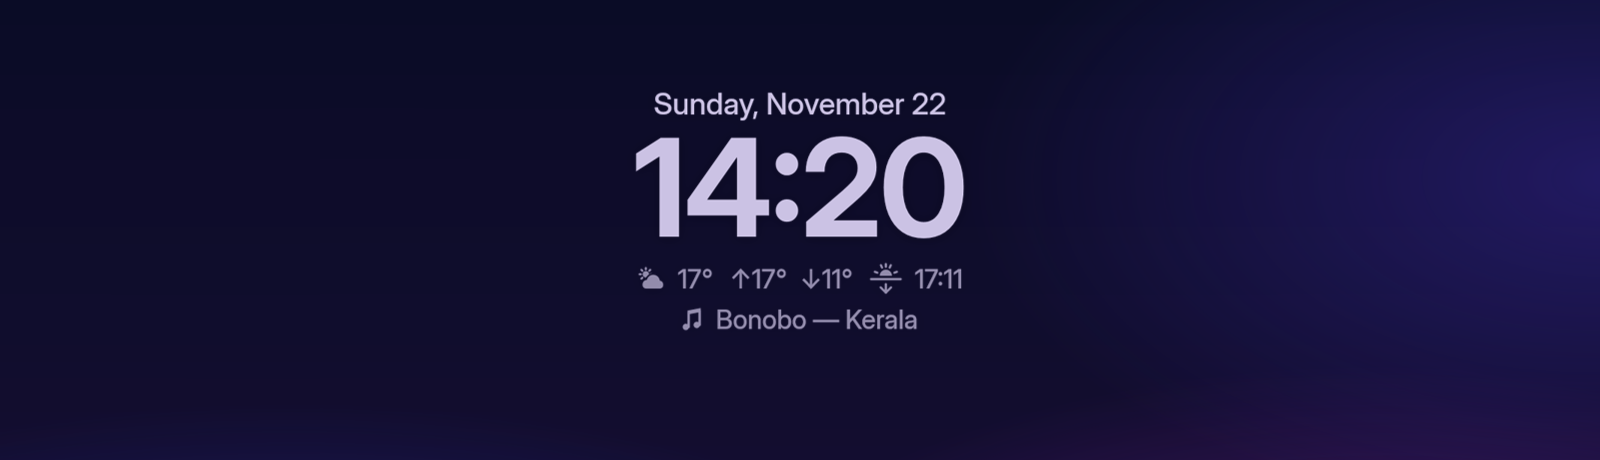
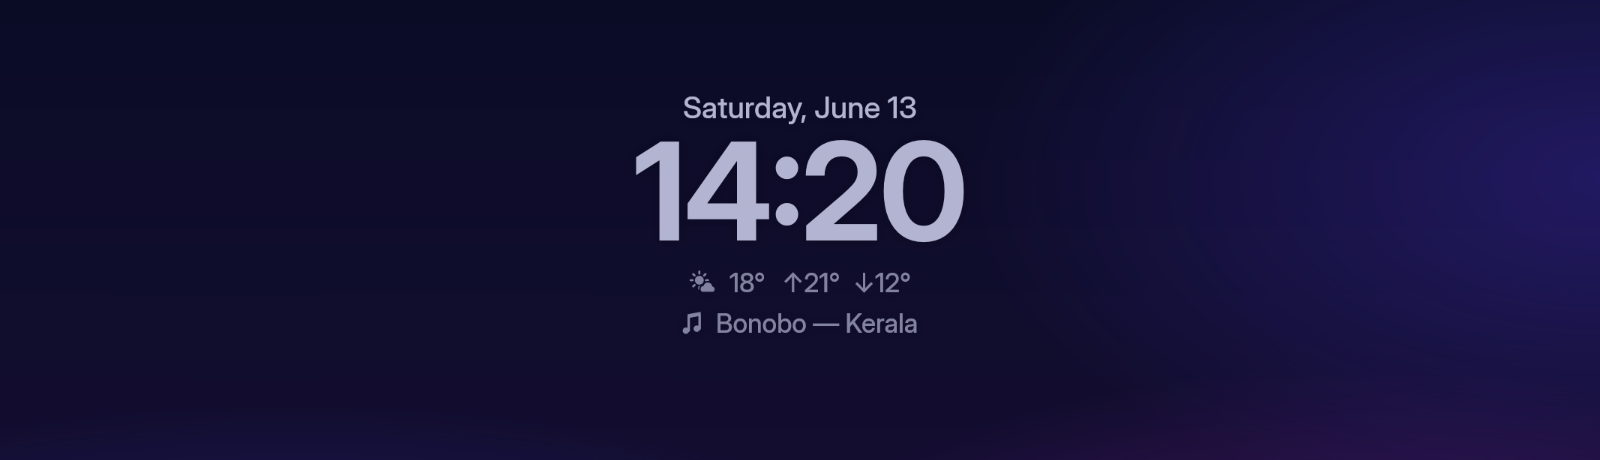
README animations; screenshot with made-up weather
--demo renders the minute change and a dark-to-light wallpaper change as
frames, using the clock's own renderer and transition layers with the
compositor's curves reproduced (StartTransition can hand its layers to a
capture instead of animating). SaveScene now blends several backgrounds
and draws parts at sub-pixel positions with an opacity; SampleImage picks
the text colour from a background image. The README shows both GIFs, and
the screenshot no longer uses real weather.

Changed region(s): [[0.375, 0.1826, 0.625, 0.5478], [0.375, 0.5783, 0.625, 0.6391], [0.4062, 0.6696, 0.5938, 0.7304]]

diff --git a/src/main.cpp b/src/main.cpp
@@ -415,6 +415,14 @@ void FinishAnimation(Clock& c) {
 //     to their new centred position at full opacity;
 //   - the changed characters of the old and new time crossfade;
 //   - the date stays put, unless it (or the colour) changed, in which case it crossfades too.
+// --demo: StartTransition hands its layers here instead of to the compositor.
+struct Capture {
+    std::vector<ClockRenderer::AnimLayer> layers;
+    std::vector<ComPtr<ID2D1Bitmap1>> keep;
+    double seconds = 0, alpha = 1;
+};
+Capture* g_capture;
+
 bool StartTransition(Clock& c, const Shown& from) {
     using AL = ClockRenderer::AnimLayer;
     const Shown& to = c.cur;
@@ -485,6 +493,13 @@ bool StartTransition(Clock& c, const Shown& from) {
             const float sx = std::fabs(dx - std::round(dx)) < 0.01f ? (float)n.x - std::round(dx) : (float)n.x - dx;
             layers.push_back({ AL::Solid, bmp.Get(), sx, (float)o.y, (float)n.x, (float)n.y });
         }
+    }
+    if (g_capture) {   // --demo: hand the layers over instead of animating them
+        g_capture->layers = layers;
+        g_capture->keep = keep;
+        g_capture->seconds = FadeMs(c.s) / 1000.0;
+        g_capture->alpha = to.lay.opacity / 100.0;
+        return true;
     }
     return g_r.Animate(c.hwnd, layers.data(), (int)layers.size(), FadeMs(c.s) / 1000.0, to.lay.opacity / 100.0);
 }
@@ -1075,7 +1090,8 @@ int RunPreview(std::wstring dir, const std::wstring& wallpaperOverride) {
             auto bmp = r.RenderFrame(lay, color, dark);
             wchar_t name[64], line[512];
             swprintf_s(name, L"preview-%d-%s.png", n, v ? L"proposed" : L"now");
-            if (!bmp || !r.SaveScene(dir + name, { monW, monH }, wall, position, bg, { { bmp.Get(), pos } },
+            if (!bmp || !r.SaveScene(dir + name, { monW, monH }, { { wall, 1.f } }, position, bg,
+                                       { { bmp.Get(), { (float)pos.x, (float)pos.y }, 1.f } },
                                        (float)std::min(1.0, 1920.0 / monW))) rc = 1;
             swprintf_s(line, L"%s  %s (%dx%d, %u dpi): TimeSize=%g DateSize=%g Gap=%g WeatherSize=%g WeatherGap=%g "
                              L"SecondaryOpacity=%g VerticalPosition=%.1f; date capitals at %.1f%% of the height\r\n",
@@ -1096,6 +1112,123 @@ int RunPreview(std::wstring dir, const std::wstring& wallpaperOverride) {
     return n ? rc : 1;
 }
 
+// --demo <folder> <dark image> <light image>: PNG frames (30 fps, half size) for the README's
+// animations, drawn with the clock's own renderer and transition, the compositor's curves
+// reproduced here: a minute change (14:19 -> 14:20) and a wallpaper change from the dark image
+// to the light one. Default settings, made-up weather and track. Also demo-still.png.
+int RunDemo(std::wstring dir, const std::wstring& darkBg, const std::wstring& lightBg) {
+    if (!dir.empty() && dir.back() != L'\\' && dir.back() != L'/') dir += L'\\';
+    if (!g_r.Init()) return 1;
+    const Settings s;   // what a new user gets
+    MonitorInfo mon;
+    mon.rc = { 0, 0, 2560, 1440 };
+    mon.dpi = 120;
+    const SIZE monSz{ 2560, 1440 };
+    WeatherReading w;
+    w.valid = true; w.code = 1; w.isDay = true; w.temp = 18; w.high = 21; w.low = 12;
+    GetSystemTimeAsFileTime(&w.fetchedUtc);
+    std::wstring media(1, icon::Music);
+    media += L" Bonobo — Kerala";
+    Clock c;
+    c.mon = mon;
+    c.s = s;
+    c.winRc = mon.rc;
+
+    auto make = [&](int h, int m, const std::wstring& bgPath, Shown& f) {
+        SYSTEMTIME t{};
+        t.wYear = 2026; t.wMonth = 6; t.wDay = 13; t.wDayOfWeek = 6; t.wHour = (WORD)h; t.wMinute = (WORD)m;
+        const std::wstring date = FormatDate(t, s), time = FormatTime(t, s);
+        std::wstring weather;
+        if (!PrepareFitted(g_r, s, mon.dpi, date, time, &w, NowUtc(), false, f.lay, &weather, nullptr, media)) return false;
+        const ClockGeometry& g = f.lay.g;
+        const POINT pos{ monSz.cx / 2 - g.anchorX, (int)lround(monSz.cy * s.verticalPos / 100.0) - g.anchorY };
+        RECT ink = g.ink;
+        OffsetRect(&ink, pos.x, pos.y);
+        WallpaperSample ws;
+        f.color = s.color;
+        f.dark = false;
+        if (g_r.SampleImage(bgPath, monSz, ink, ws)) {
+            f.dark = s.autoContrast && ws.lightness > s.brightThreshold;
+            f.color = TintColor(f.dark ? s.darkColor : s.color, ws, s.tint / 100.0);
+        }
+        f.rc = { pos.x, pos.y, pos.x + g.width, pos.y + g.height };
+        f.win = mon.rc;
+        wchar_t col[48];
+        swprintf_s(col, L"|%06X|%.0f|%d", (unsigned)f.color, s.opacity, f.dark ? 1 : 0);
+        f.dateKey = date + col;
+        f.weatherKey = weather + col;
+        f.mediaKey = media + col;
+        f.key = f.dateKey + L"|" + time + L"|" + weather + L"|" + f.mediaKey;
+        f.bmp = g_r.RenderFrame(f.lay, f.color, f.dark);
+        return f.bmp != nullptr;
+    };
+    using Walls = std::vector<ClockRenderer::SceneWall>;
+    using Parts = std::vector<ClockRenderer::ScenePart>;
+    constexpr int kFps = 30;
+    constexpr float kScale = 0.5f;
+    int rc = 0;
+    auto save = [&](const wchar_t* prefix, int& n, const Walls& walls, const Parts& parts) {
+        wchar_t name[64];
+        swprintf_s(name, L"%s-%03d.png", prefix, n++);
+        if (!g_r.SaveScene(dir + name, monSz, walls, 4, 0, parts, kScale)) rc = 1;
+    };
+    auto at = [](const Shown& f) { return D2D1_POINT_2F{ (float)f.rc.left, (float)f.rc.top }; };
+    auto smooth = [](double u) { return u * u * (3 - 2 * u); };
+    // The transition's layers at progress u (0..1) of the clock's own fade, as Animate runs them.
+    auto layersAt = [&](const Capture& cap, double u) {
+        Parts parts;
+        const double e = smooth(std::clamp(u, 0.0, 1.0));
+        for (const auto& l : cap.layers) {
+            double o = 1;
+            if (l.kind == ClockRenderer::AnimLayer::FadeIn) o = e;
+            if (l.kind == ClockRenderer::AnimLayer::FadeOut) o = 1 - cap.alpha * e <= 1e-6 ? 0 : (1 - e) / (1 - cap.alpha * e);
+            parts.push_back({ l.bmp, { (float)(l.x0 + (l.x1 - l.x0) * e), (float)(l.y0 + (l.y1 - l.y0) * e) }, (float)o });
+        }
+        return parts;
+    };
+    auto capture = [&](const Shown& from, Shown& to, double fadeMs, Capture& cap) {
+        g_fadeMs = fadeMs;
+        c.cur = std::move(to);
+        g_capture = &cap;
+        const bool ok = StartTransition(c, from);
+        g_capture = nullptr;
+        g_fadeMs = 0;
+        to = std::move(c.cur);
+        return ok;
+    };
+
+    {   // 1. The minute changes: 14:19 -> 14:20 (the "14:" glides, "19" fades to "20").
+        Shown a, b;
+        Capture cap;
+        if (!make(14, 19, darkBg, a) || !make(14, 20, darkBg, b) || !capture(a, b, 0, cap)) return 1;
+        const Walls walls{ { darkBg, 1.f } };
+        int n = 0;
+        for (int i = 0; i < kFps * 6 / 10; ++i) save(L"minute", n, walls, { { a.bmp.Get(), at(a), 1.f } });
+        const int frames = (int)lround(cap.seconds * kFps);
+        for (int i = 0; i <= frames; ++i) save(L"minute", n, walls, layersAt(cap, (double)i / frames));
+        for (int i = 0; i < kFps; ++i) save(L"minute", n, walls, { { b.bmp.Get(), at(b), 1.f } });
+        if (!g_r.SaveScene(dir + L"demo-still.png", monSz, walls, 4, 0, { { b.bmp.Get(), at(b), 1.f } }, 0.75f)) rc = 1;
+    }
+    {   // 2. The wallpaper changes from dark to light. Windows crossfades it over ~1.2 s; the clock
+        // starts once Windows names the new image (~0.4 s in) and ends with it, as on the desktop.
+        Shown a, b;
+        Capture cap;
+        constexpr double kWall = 1.2, kStart = 0.4;
+        if (!make(14, 20, darkBg, a) || !make(14, 20, lightBg, b) || !capture(a, b, (kWall - kStart) * 1000, cap)) return 1;
+        int n = 0;
+        for (int i = 0; i < kFps * 6 / 10; ++i) save(L"wallpaper", n, { { darkBg, 1.f } }, { { a.bmp.Get(), at(a), 1.f } });
+        const int frames = (int)lround(kWall * kFps);
+        for (int i = 0; i <= frames; ++i) {
+            const double t = (double)i / kFps;
+            const Walls walls{ { darkBg, 1.f }, { lightBg, (float)smooth(std::min(1.0, t / kWall)) } };
+            if (t < kStart) save(L"wallpaper", n, walls, { { a.bmp.Get(), at(a), 1.f } });
+            else save(L"wallpaper", n, walls, layersAt(cap, (t - kStart) / (kWall - kStart)));
+        }
+        for (int i = 0; i < kFps; ++i) save(L"wallpaper", n, { { lightBg, 1.f } }, { { b.bmp.Get(), at(b), 1.f } });
+    }
+    return rc;
+}
+
 int WINAPI wWinMain(HINSTANCE inst, HINSTANCE, LPWSTR cmdLine, int) {
     g_inst = inst;
     const bool exitCmd = wcsstr(cmdLine, L"--exit") != nullptr;
@@ -1106,6 +1239,19 @@ int WINAPI wWinMain(HINSTANCE inst, HINSTANCE, LPWSTR cmdLine, int) {
         CoInitializeEx(nullptr, COINIT_APARTMENTTHREADED);
         const int rc = RunWeatherTest(dir);
         CoUninitialize();
+        return rc;
+    }
+    if (wcsstr(cmdLine, L"--demo")) {   // --demo <folder> <dark image> <light image>
+        int argc = 0;
+        LPWSTR* argv = CommandLineToArgvW(GetCommandLineW(), &argc);
+        int rc = 1;
+        for (int i = 1; argv && i + 3 < argc; ++i)
+            if (wcscmp(argv[i], L"--demo") == 0) {
+                CoInitializeEx(nullptr, COINIT_APARTMENTTHREADED);
+                rc = RunDemo(argv[i + 1], argv[i + 2], argv[i + 3]);   // (COM stays up: g_r is released at exit)
+                break;
+            }
+        if (argv) LocalFree(argv);
         return rc;
     }
     if (const wchar_t* t = wcsstr(cmdLine, L"--preview")) {

diff --git a/src/render.cpp b/src/render.cpp
@@ -1,5 +1,6 @@
 #include "render.h"
 #include "icons.h"
+#include "wallpaper.h"
 #include "../res/resource.h"
 #include <d2d1_1helper.h>
 #include <d2d1effects.h>
@@ -596,7 +597,52 @@ bool ClockRenderer::SaveGallery(const std::wstring& path, const std::vector<Gall
     return SavePng(target.Get(), W, H, dpi, path);
 }
 
-bool ClockRenderer::SaveScene(const std::wstring& path, SIZE mon, const std::wstring& wallpaper, int position,
+// Decodes an image once (kept for the next call) as premultiplied BGRA pixels.
+const ClockRenderer::Image* ClockRenderer::DecodeImage(const std::wstring& path) {
+    for (const auto& im : images_) if (im.path == path) return &im;
+    ComPtr<IWICBitmapDecoder> dec;
+    ComPtr<IWICBitmapFrameDecode> fr;
+    ComPtr<IWICFormatConverter> conv;
+    Image im;
+    im.path = path;
+    if (FAILED(wic_->CreateDecoderFromFilename(path.c_str(), nullptr, GENERIC_READ, WICDecodeMetadataCacheOnDemand, &dec)) ||
+        FAILED(dec->GetFrame(0, &fr)) || FAILED(wic_->CreateFormatConverter(&conv)) ||
+        FAILED(conv->Initialize(fr.Get(), GUID_WICPixelFormat32bppPBGRA, WICBitmapDitherTypeNone, nullptr, 0,
+                                WICBitmapPaletteTypeCustom)) ||
+        FAILED(conv->GetSize(&im.w, &im.h))) {
+        Log(L"preview: could not load %s", path.c_str());
+        return nullptr;
+    }
+    im.px.resize((size_t)im.w * im.h * 4);
+    if (FAILED(conv->CopyPixels(nullptr, im.w * 4, (UINT)im.px.size(), im.px.data()))) return nullptr;
+    images_.push_back(std::move(im));
+    return &images_.back();
+}
+
+bool ClockRenderer::SampleImage(const std::wstring& path, SIZE mon, const RECT& rc, WallpaperSample& out) {
+    const Image* im = DecodeImage(path);
+    if (!im || rc.right <= rc.left || rc.bottom <= rc.top) return false;
+    // The image fills the monitor (centred, cropped), as the desktop's "fill" mode shows it.
+    const double s = std::max((double)mon.cx / im->w, (double)mon.cy / im->h);
+    const double ox = (mon.cx - im->w * s) / 2, oy = (mon.cy - im->h * s) / 2;
+    auto lin = [](int v) { const double c = v / 255.0; return c <= 0.04045 ? c / 12.92 : std::pow((c + 0.055) / 1.055, 2.4); };
+    double r = 0, g = 0, b = 0;
+    const int kCols = 48, kRows = 16;
+    for (int y = 0; y < kRows; ++y)
+        for (int x = 0; x < kCols; ++x) {
+            const double sx = rc.left + (x + 0.5) * (rc.right - rc.left) / kCols, sy = rc.top + (y + 0.5) * (rc.bottom - rc.top) / kRows;
+            const UINT ix = (UINT)std::clamp((sx - ox) / s, 0.0, im->w - 1.0), iy = (UINT)std::clamp((sy - oy) / s, 0.0, im->h - 1.0);
+            const BYTE* p = &im->px[((size_t)iy * im->w + ix) * 4];
+            b += lin(p[0]); g += lin(p[1]); r += lin(p[2]);
+        }
+    const double n = kCols * kRows;
+    out.r = r / n; out.g = g / n; out.b = b / n;
+    const double Y = 0.2126 * out.r + 0.7152 * out.g + 0.0722 * out.b;
+    out.lightness = Y > 0.008856 ? 116.0 * std::cbrt(Y) - 16.0 : 903.3 * Y;
+    return true;
+}
+
+bool ClockRenderer::SaveScene(const std::wstring& path, SIZE mon, const std::vector<SceneWall>& walls, int position,
                               COLORREF bg, const std::vector<ScenePart>& parts, float scale) {
     if (!dcomp_ && !CreateDevices()) return false;
     const UINT W = (UINT)std::lround(mon.cx * scale), H = (UINT)std::lround(mon.cy * scale);
@@ -604,43 +650,33 @@ bool ClockRenderer::SaveScene(const std::wstring& path, SIZE mon, const std::wst
         D2D1_BITMAP_OPTIONS_TARGET, D2D1::PixelFormat(DXGI_FORMAT_B8G8R8A8_UNORM, D2D1_ALPHA_MODE_PREMULTIPLIED), 96.f, 96.f);
     ComPtr<ID2D1Bitmap1> target;
     if (FAILED(offDc_->CreateBitmap(D2D1::SizeU(W, H), nullptr, 0, bp, &target))) return false;
-    ComPtr<ID2D1Bitmap1> wall;   // the wallpaper image at full size, 1 DIP per image pixel
-    if (!wallpaper.empty()) {
-        ComPtr<IWICBitmapDecoder> dec;
-        ComPtr<IWICBitmapFrameDecode> fr;
-        ComPtr<IWICFormatConverter> conv;
-        const D2D1_BITMAP_PROPERTIES1 wp = D2D1::BitmapProperties1(
-            D2D1_BITMAP_OPTIONS_NONE, D2D1::PixelFormat(DXGI_FORMAT_B8G8R8A8_UNORM, D2D1_ALPHA_MODE_PREMULTIPLIED), 96.f, 96.f);
-        if (SUCCEEDED(wic_->CreateDecoderFromFilename(wallpaper.c_str(), nullptr, GENERIC_READ, WICDecodeMetadataCacheOnDemand, &dec)) &&
-            SUCCEEDED(dec->GetFrame(0, &fr)) && SUCCEEDED(wic_->CreateFormatConverter(&conv)) &&
-            SUCCEEDED(conv->Initialize(fr.Get(), GUID_WICPixelFormat32bppPBGRA, WICBitmapDitherTypeNone, nullptr, 0,
-                                       WICBitmapPaletteTypeCustom)))
-            offDc_->CreateBitmapFromWicBitmap(conv.Get(), &wp, &wall);
-        if (!wall) Log(L"preview: could not load the wallpaper %s", wallpaper.c_str());
-    }
     offDc_->SetTarget(target.Get());
     offDc_->SetDpi(96.f, 96.f);
     offDc_->SetTransform(D2D1::Matrix3x2F::Scale(scale, scale));   // monitor px -> output px
     offDc_->BeginDraw();
     offDc_->Clear(D2D1::ColorF(GetRValue(bg) / 255.f, GetGValue(bg) / 255.f, GetBValue(bg) / 255.f));
-    if (wall) {
+    for (const SceneWall& w : walls) {
+        const Image* im = w.path.empty() ? nullptr : DecodeImage(w.path);
+        if (!im || w.opacity <= 0) continue;
+        ComPtr<ID2D1Bitmap1> wall;   // 1 DIP per image pixel
+        const D2D1_BITMAP_PROPERTIES1 wp = D2D1::BitmapProperties1(
+            D2D1_BITMAP_OPTIONS_NONE, D2D1::PixelFormat(DXGI_FORMAT_B8G8R8A8_UNORM, D2D1_ALPHA_MODE_PREMULTIPLIED), 96.f, 96.f);
+        if (FAILED(offDc_->CreateBitmap(D2D1::SizeU(im->w, im->h), im->px.data(), im->w * 4, wp, &wall))) continue;
         // DESKTOP_WALLPAPER_POSITION: 0 centre, 2 stretch, 3 fit; fill (4) for the rest (span and
         // tile roughly).
-        const D2D1_SIZE_U is = wall->GetPixelSize();
-        const float iw = (float)is.width, ih = (float)is.height, mw = (float)mon.cx, mh = (float)mon.cy;
+        const float iw = (float)im->w, ih = (float)im->h, mw = (float)mon.cx, mh = (float)mon.cy;
         float dw = iw * std::max(mw / iw, mh / ih), dh = ih * std::max(mw / iw, mh / ih);
         if (position == 0) { dw = iw; dh = ih; }
         else if (position == 2) { dw = mw; dh = mh; }
         else if (position == 3) { dw = iw * std::min(mw / iw, mh / ih); dh = ih * std::min(mw / iw, mh / ih); }
         const D2D1_RECT_F dst = D2D1::RectF((mw - dw) / 2, (mh - dh) / 2, (mw + dw) / 2, (mh + dh) / 2);
-        offDc_->DrawBitmap(wall.Get(), &dst, 1.f, D2D1_INTERPOLATION_MODE_HIGH_QUALITY_CUBIC, nullptr, nullptr);
+        offDc_->DrawBitmap(wall.Get(), &dst, w.opacity, D2D1_INTERPOLATION_MODE_HIGH_QUALITY_CUBIC, nullptr, nullptr);
     }
     for (const ScenePart& p : parts) {
-        if (!p.bmp) continue;
+        if (!p.bmp || p.opacity <= 0) continue;
         const D2D1_SIZE_U s = p.bmp->GetPixelSize();
-        const D2D1_RECT_F dst = D2D1::RectF((float)p.pos.x, (float)p.pos.y, (float)(p.pos.x + (LONG)s.width),
-                                            (float)(p.pos.y + (LONG)s.height));
-        offDc_->DrawBitmap(p.bmp, &dst, 1.f, D2D1_INTERPOLATION_MODE_HIGH_QUALITY_CUBIC, nullptr, nullptr);
+        const D2D1_RECT_F dst = D2D1::RectF(p.pos.x, p.pos.y, p.pos.x + (float)s.width, p.pos.y + (float)s.height);
+        offDc_->DrawBitmap(p.bmp, &dst, p.opacity, D2D1_INTERPOLATION_MODE_LINEAR, nullptr, nullptr);
     }
     const HRESULT hr = offDc_->EndDraw();
     offDc_->SetTarget(nullptr);

diff --git a/src/render.h b/src/render.h
@@ -103,9 +103,12 @@ public:
     // Preview: a monitor of size `mon` (px) showing its wallpaper as the desktop does (position:
     // DESKTOP_WALLPAPER_POSITION; bg: the colour around it), with frames drawn on top at px
     // positions; written as a PNG scaled by `scale`.
-    struct ScenePart { ID2D1Bitmap1* bmp; POINT pos; };
-    bool SaveScene(const std::wstring& path, SIZE mon, const std::wstring& wallpaper, int position, COLORREF bg,
+    struct ScenePart { ID2D1Bitmap1* bmp; D2D1_POINT_2F pos; float opacity = 1; };   // pos: monitor px
+    struct SceneWall { std::wstring path; float opacity = 1; };                       // drawn in order
+    bool SaveScene(const std::wstring& path, SIZE mon, const std::vector<SceneWall>& walls, int position, COLORREF bg,
                    const std::vector<ScenePart>& parts, float scale);
+    // The average colour and lightness of an image filling a monitor of size mon, over rc (px).
+    bool SampleImage(const std::wstring& path, SIZE mon, const RECT& rc, struct WallpaperSample& out);
 
     // Where a text layout's ink lies, in DIPs from the layout's left edge (drawn at 4 px per DIP
     // on the CPU): the ink box's edges, and the centre of mass of its coverage (where the eye
@@ -137,6 +140,9 @@ private:
     std::vector<std::pair<wchar_t, ComPtr<ID2D1Geometry>>> iconGeo_;   // built once per icon, in icon units
     ComPtr<ID2D1StrokeStyle> roundCaps_;
     bool CreateDevices();
+    struct Image { std::wstring path; UINT w = 0, h = 0; std::vector<BYTE> px; };   // decoded, PBGRA
+    std::vector<Image> images_;   // --preview / --demo backgrounds
+    const Image* DecodeImage(const std::wstring& path);
     bool SavePng(ID2D1Bitmap1* target, UINT W, UINT H, float dpi, const std::wstring& path);   // opaque image
     // One composition target per clock window (one window per monitor).
     struct Target {

diff --git a/docs/DETAILS.md b/docs/DETAILS.md
@@ -28,6 +28,12 @@ The [README](../README.md) covers installing and the main settings. This page ha
   - `centring.txt` also checks the colon with `CentreOn=colon` in every minute, and reports how far the whole time then leans.
   - `time-centring-120.png` / `-192.png` compare `OpticalCentring` 0, 50 and 100 and `CentreOn=colon` on hard times.
 - `Overlook.exe --preview [folder]` draws each monitor's clock over its wallpaper as `preview-N-now.png`, and as `preview-N-proposed.png` with the sizes 15% larger and the date's capitals at 9.5% of the screen height. `preview.txt` lists the settings each image used. `--wallpaper <image>` draws over that image instead (how `docs/screenshot.png` was made). It doesn't touch a running clock.
+- `Overlook.exe --demo <folder> <dark image> <light image>` renders the README animations as PNG frames (30 fps, half size) with the clock's own drawing and transition, over two background images, with default settings, made-up weather and a sample track. It writes `minute-NNN.png`, `wallpaper-NNN.png` and `demo-still.png` (the screenshot). The GIFs were made with ffmpeg:
+
+  ```
+  ffmpeg -framerate 30 -i minute-%03d.png -vf "crop=760:240:260:30,split[a][b];[a]palettegen[p];[b][p]paletteuse=dither=sierra2_4a" -loop 0 demo-minute.gif
+  ```
+
 - `Overlook.exe --exit` closes a running instance. Launching it again while running reloads its settings.
 - Keep `OFL.txt` (the Inter font licence) next to the exe.
 

diff --git a/README.md b/README.md
@@ -17,6 +17,10 @@ Overlook is new. If you try it, please [tell me how it went](#feedback).
 - **OLED care**: an optional slow pixel shift and night dimming.
 - **Light**: one small exe with no installer. It sleeps between minutes and pauses while the screen is off or locked.
 
+| The minute changes | The wallpaper changes |
+|---|---|
+| ![14:19 turns into 14:20: the 14: slides into place while 19 fades into 20](docs/demo-minute.gif) | ![The wallpaper fades from dark to light and the clock fades from light to dark text with it](docs/demo-wallpaper.gif) |
+
 ## Install
 
 1. Download `Overlook.zip` from [Releases](../../releases) and unzip it to a folder you'll keep, e.g. `%LOCALAPPDATA%\Overlook`.
